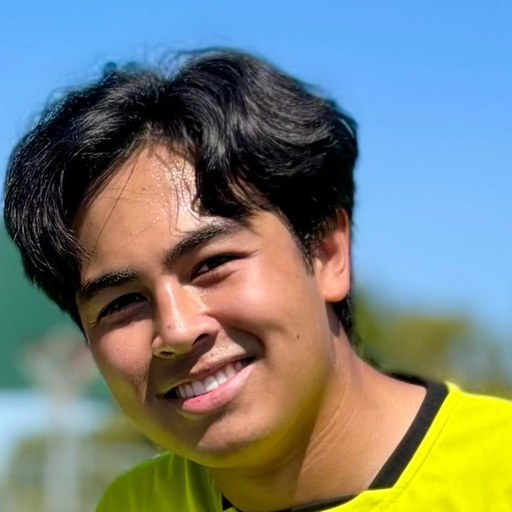
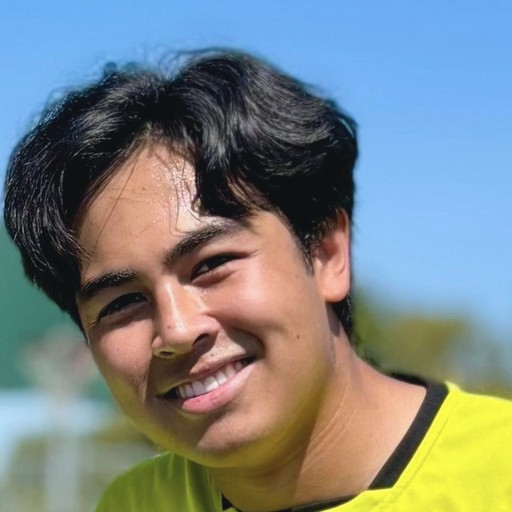
Referees: Halina and Azadeh pair bio live on the site
Writes the Halina Lehto and Azadeh Ahmadi pair bio into site/data/data.js (pair r3), replacing the generic "USATH-certified referee pair." line. Text is identical to the PAIR_BIO entry already in automation/mapper.mjs, so the next scheduled data rebuild produces the same result. Also includes updated referee portraits for Zeke (ezekiel-mcclintock.jpg) and Tora (tora-johnsen.jpg).

Changed region(s): [[0.625, 0.75, 1.0, 1.0], [0.1875, 0.75, 0.625, 1.0]]

diff --git a/site/data/data.js b/site/data/data.js
@@ -1316,7 +1316,7 @@ window.CALCUP = {
         "Azadeh Ahmadi"
       ],
       "country": "USA",
-      "bio": "USATH-certified referee pair."
+      "bio": "Halina from Finland and Azadeh from Iran form an experienced international refereeing duo sharing a deep passion for handball. Since 2024, they have been officiating across the USA at various tournaments and competitions, including CalCup, League, Fall Classic, USA Open Championship, and USATH Cup and will be officiating at CalCup for the second year in a row."
     },
     {
       "id": "r4",
